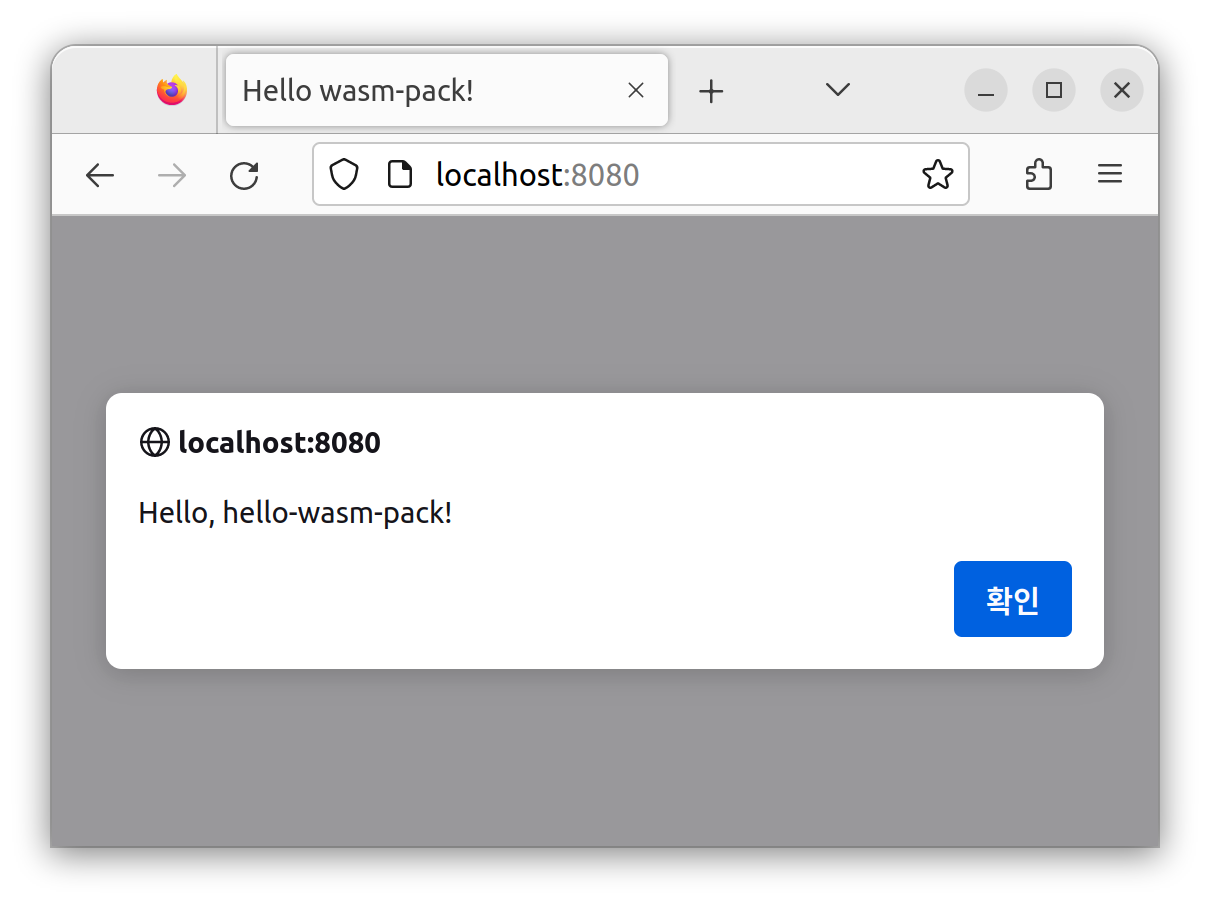
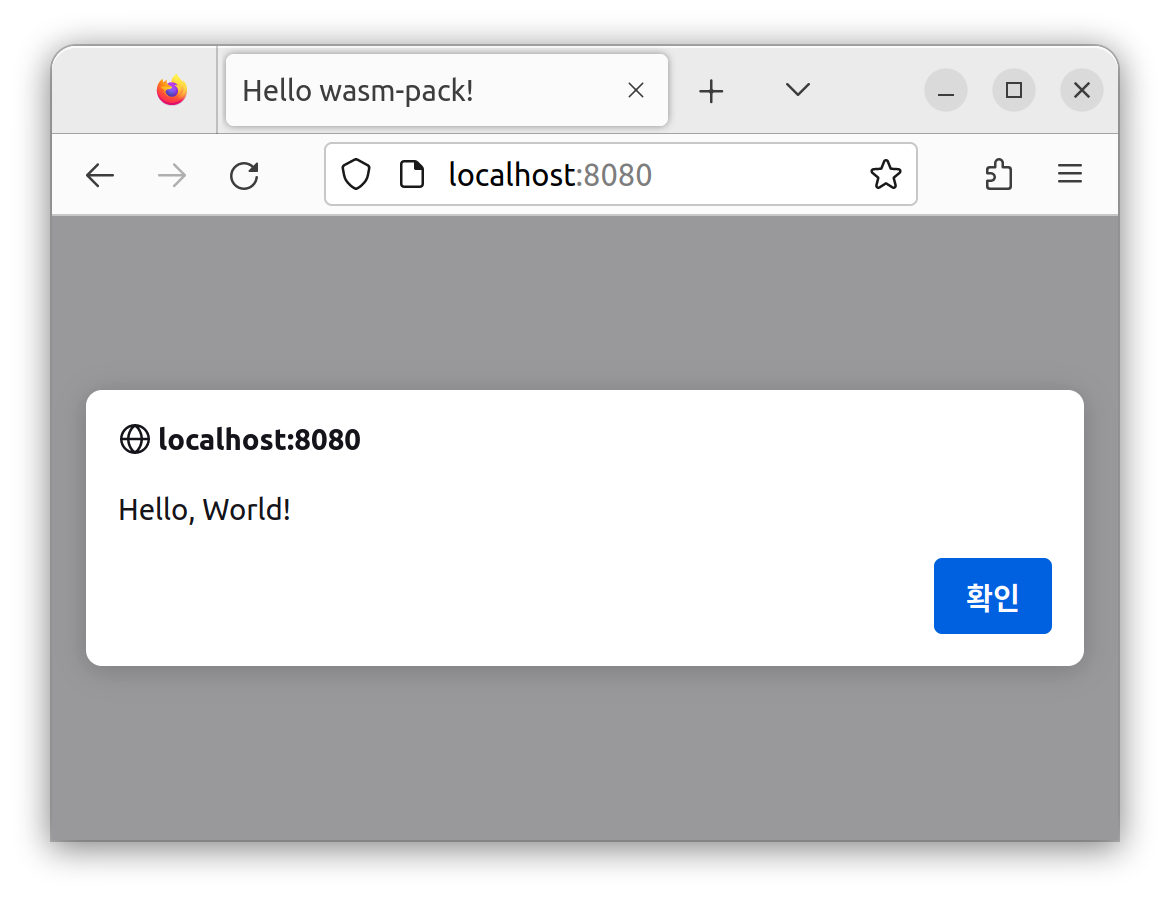
Wasm Hello World

diff --git a/src/wasm/wasm-game-of-life/www/index.js b/src/wasm/wasm-game-of-life/www/index.js
@@ -1,3 +1,3 @@
-import * as wasm from "hello-wasm-pack";
+import * as wasm from "wasm-game-of-life";
 
-wasm.greet();
+wasm.greet("World");

diff --git a/src/wasm/wasm-game-of-life/src/lib.rs b/src/wasm/wasm-game-of-life/src/lib.rs
@@ -9,11 +9,11 @@ use wasm_bindgen::prelude::*;
 static ALLOC: wee_alloc::WeeAlloc = wee_alloc::WeeAlloc::INIT;
 
 #[wasm_bindgen]
-extern {
+extern "C" {
     fn alert(s: &str);
 }
 
 #[wasm_bindgen]
-pub fn greet() {
-    alert("Hello, wasm-game-of-life!");
+pub fn greet(name: &str) {
+    alert(&format!("Hello, {}!", name));
 }

diff --git a/src/wasm/wasm-game-of-life/docs/README.md b/src/wasm/wasm-game-of-life/docs/README.md
@@ -85,6 +85,29 @@ vi package.json
 npm install
 ```
 
+### Update Hello World
+
+```bash
+www/src/index.js
+```
+
+```js
+import * as wasm from "wasm-game-of-life";
+
+wasm.greet("World");
+```
+
+```bash
+src/lib.rs
+```
+
+```js
+#[wasm_bindgen]
+pub fn greet(name: &str) {
+    alert(&format!("Hello, {}!", name));
+}
+```
+
 ### Serving Locally
 
 ```bash
